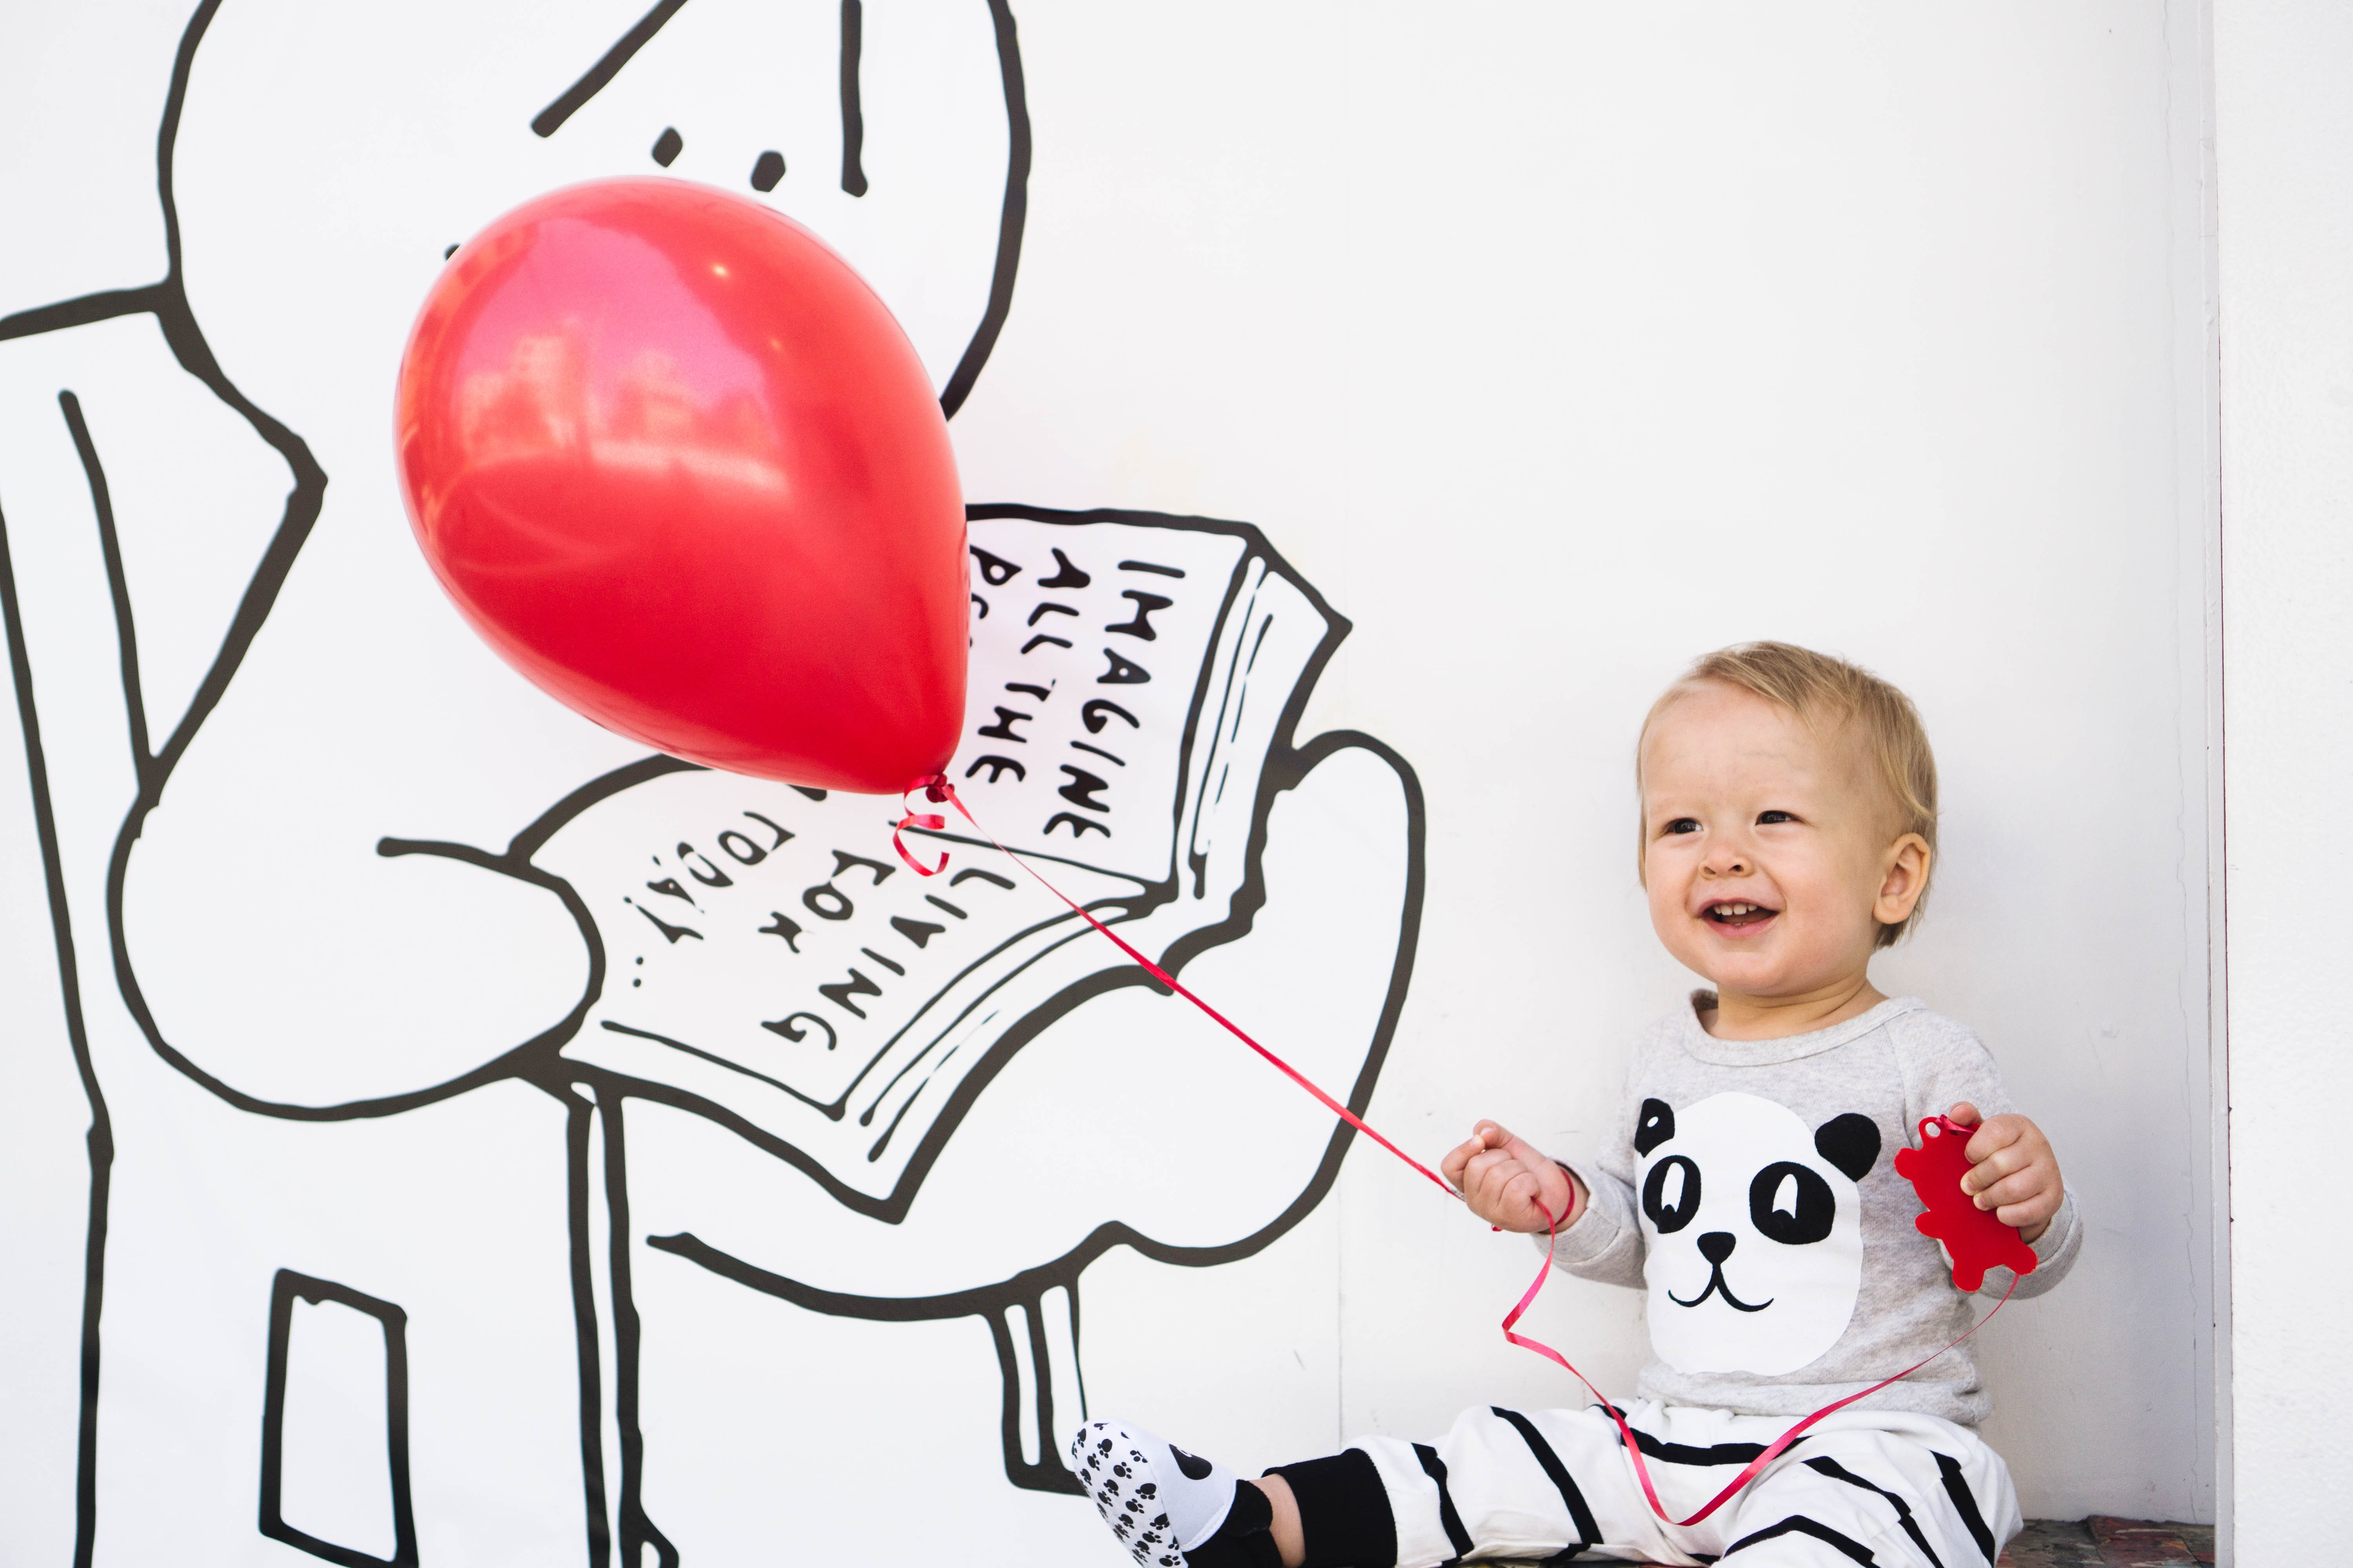
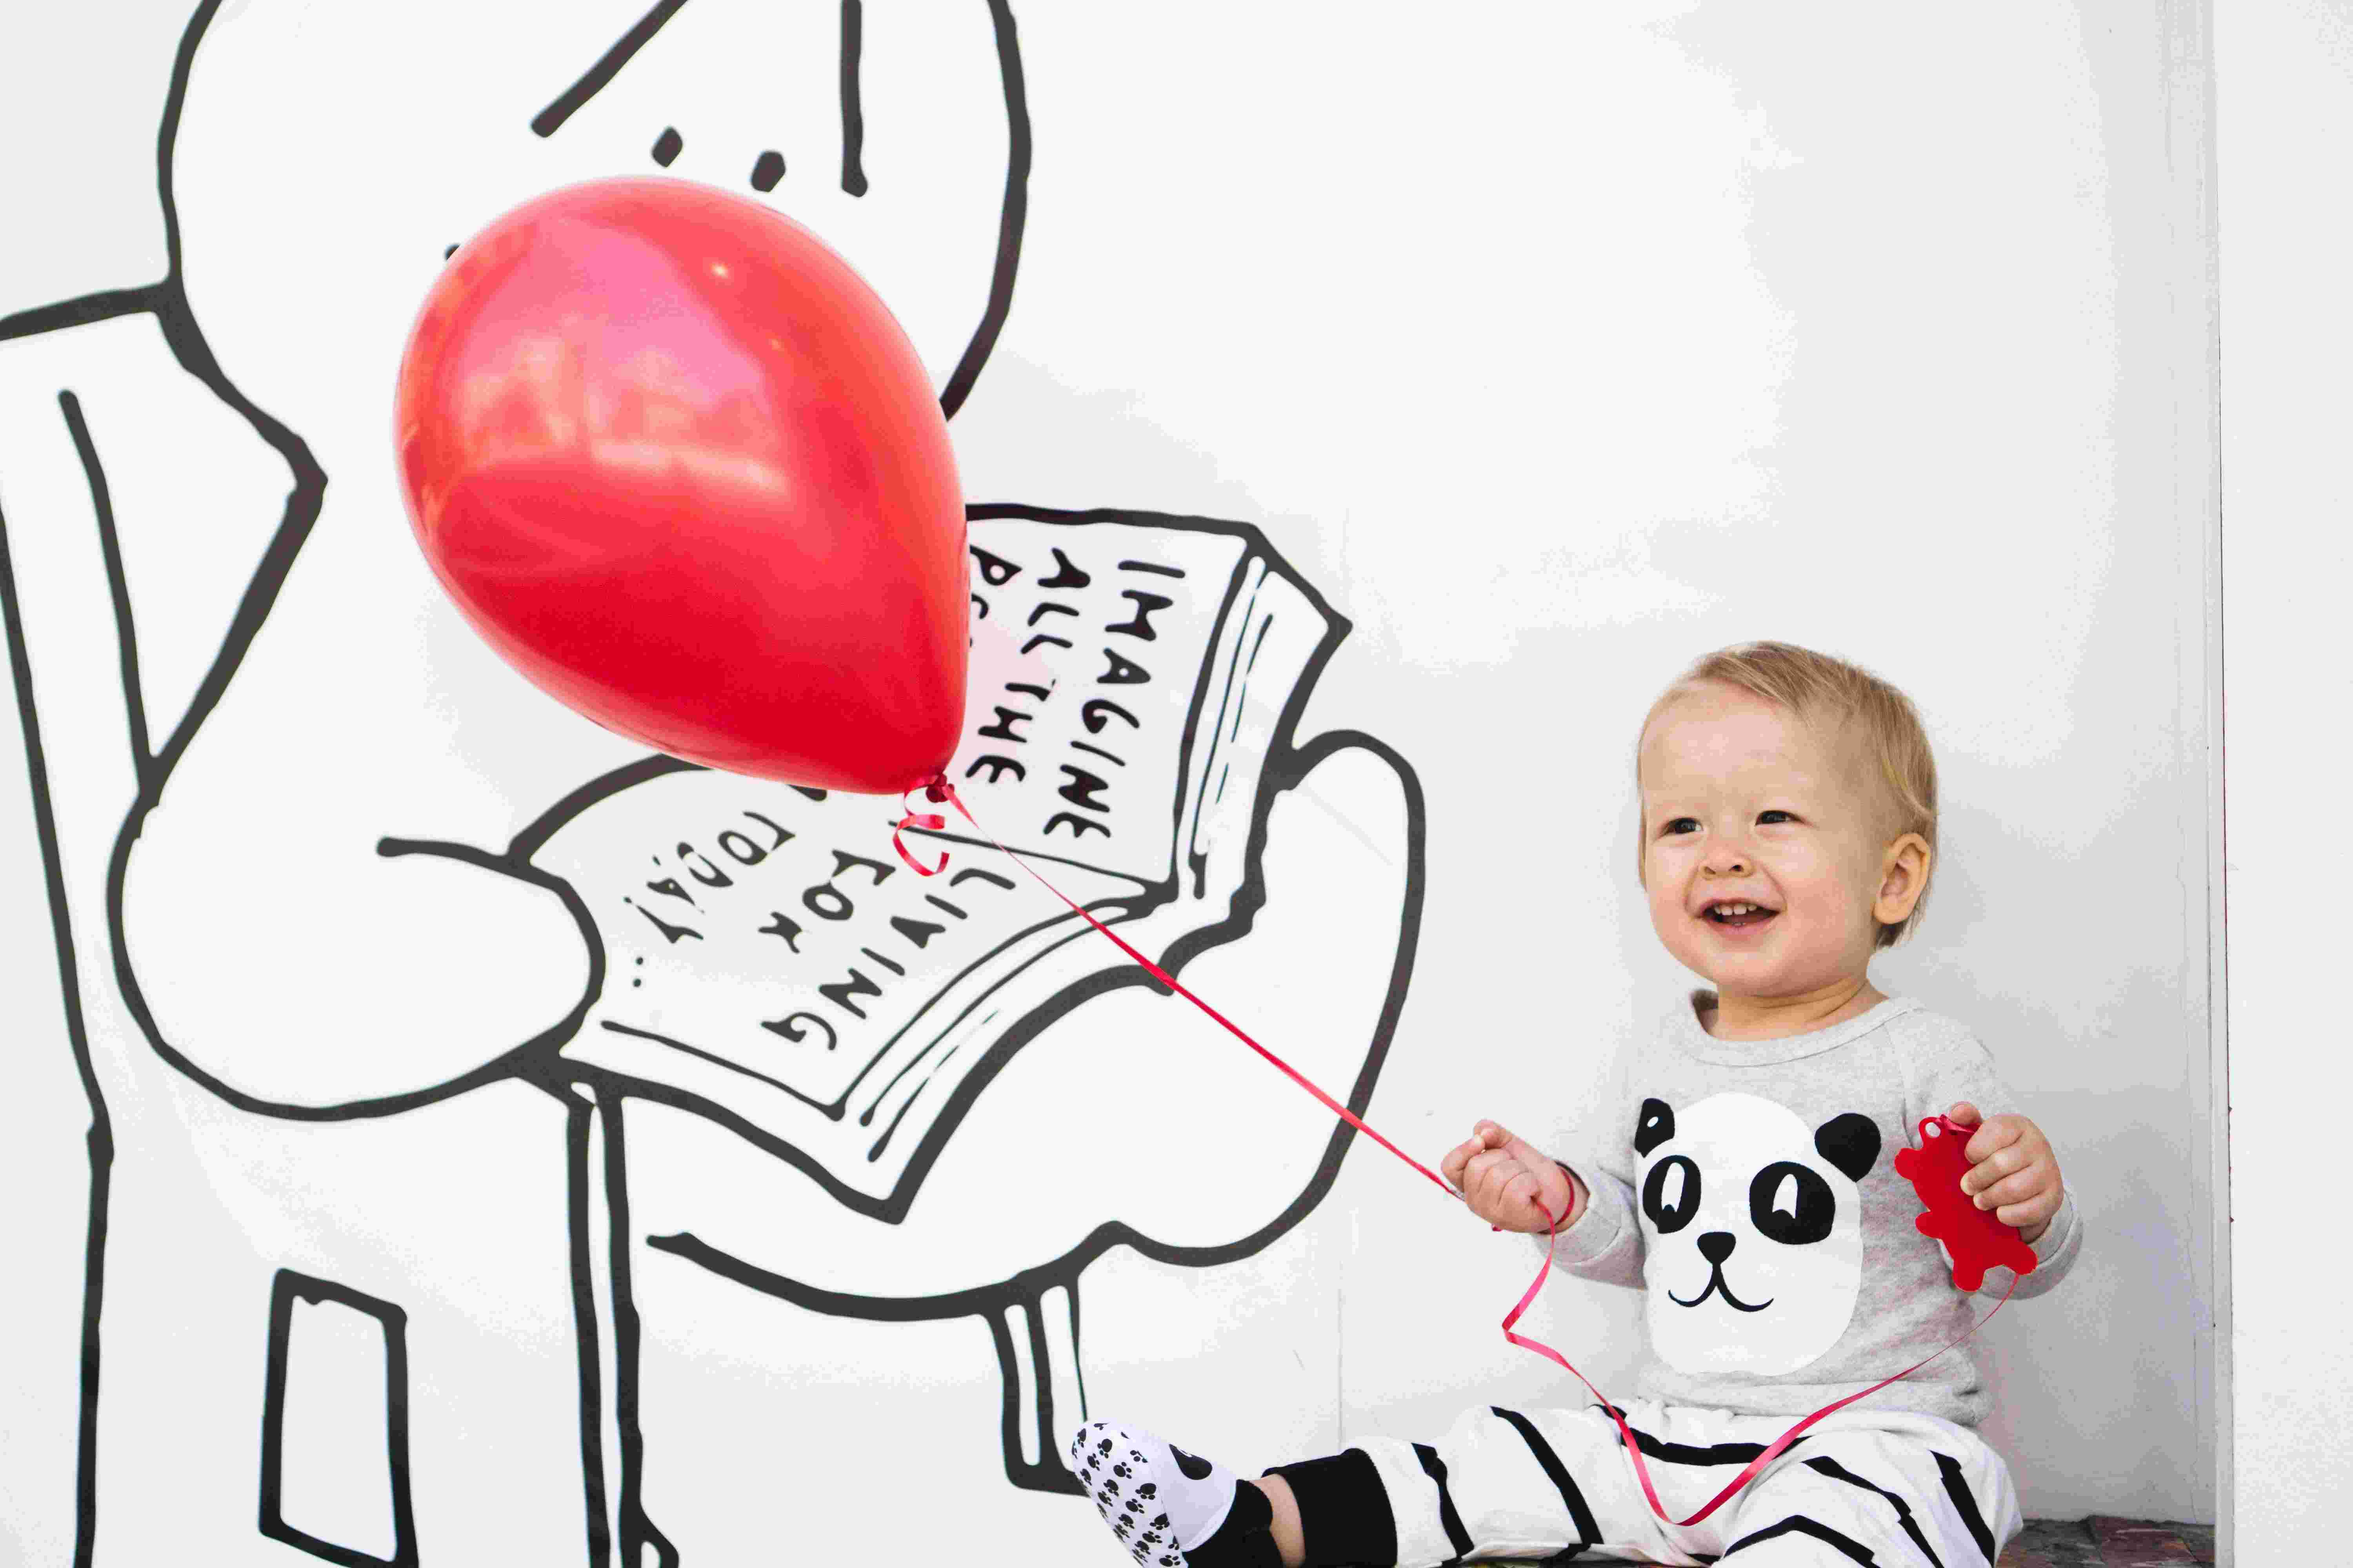
pic quality reduced

diff --git a/src/app/home/home.component.scss b/src/app/home/home.component.scss
@@ -25,7 +25,7 @@
   background-repeat: none;
   opacity: 0;
   z-index: 0;
-  -webkit-backface-visibility: hidden;
+  // -webkit-backface-visibility: hidden;
   -webkit-animation: imageAnimation 36s linear infinite 0s;
   -moz-animation: imageAnimation 36s linear infinite 0s;
   -o-animation: imageAnimation 36s linear infinite 0s;
@@ -57,7 +57,12 @@
 }
 
 .cb-slideshow li:nth-child(1) span {
-  background-image: url(/assets/Images/1.jpg)
+  background-image: url(/assets/Images/1.jpg);
+  -webkit-animation-delay: 0s;
+  -moz-animation-delay: 0s;
+  -o-animation-delay: 0s;
+  -ms-animation-delay: 0s;
+  animation-delay: 0s;
 }
 
 .cb-slideshow li:nth-child(2) span {

diff --git a/src/app/head/head.component.scss b/src/app/head/head.component.scss
@@ -55,10 +55,10 @@ p.codrops-demos a:active {
   box-shadow: 0px 1px 1px rgba(255, 255, 255, 0.9);
 }
 
-p.codrops-demos a.current-demo:hover {
+// p.codrops-demos a.current-demo:hover {
 
-  // background: #6d0019;
-}
+//   // background: #6d0019;
+// }
 
 header img {
   width: 100px;
